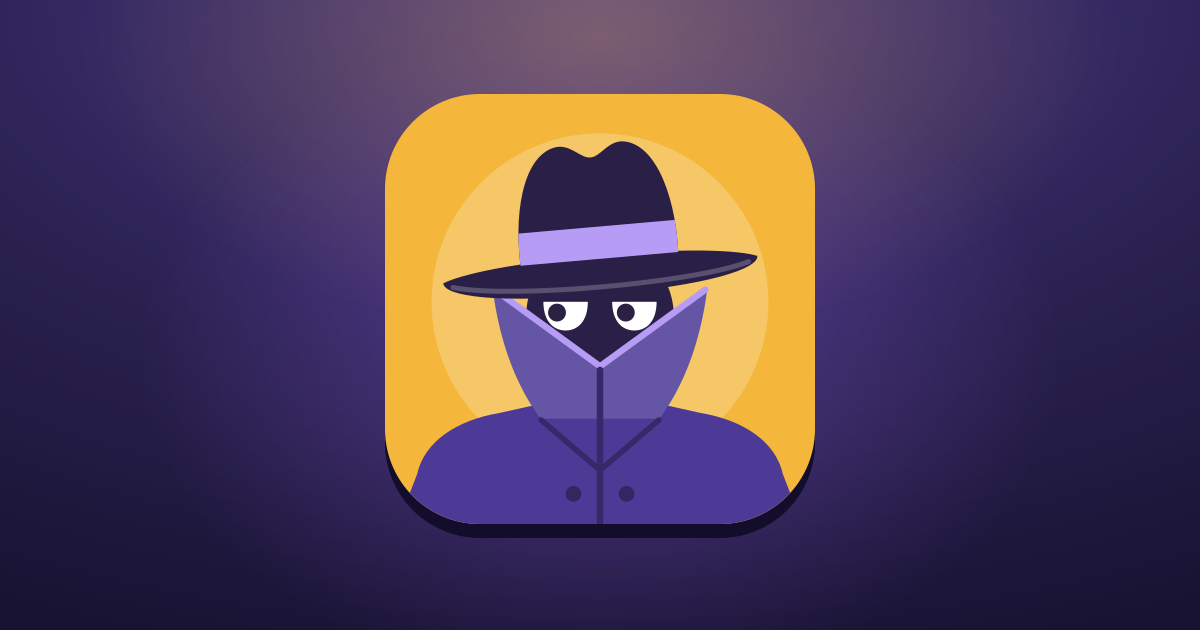
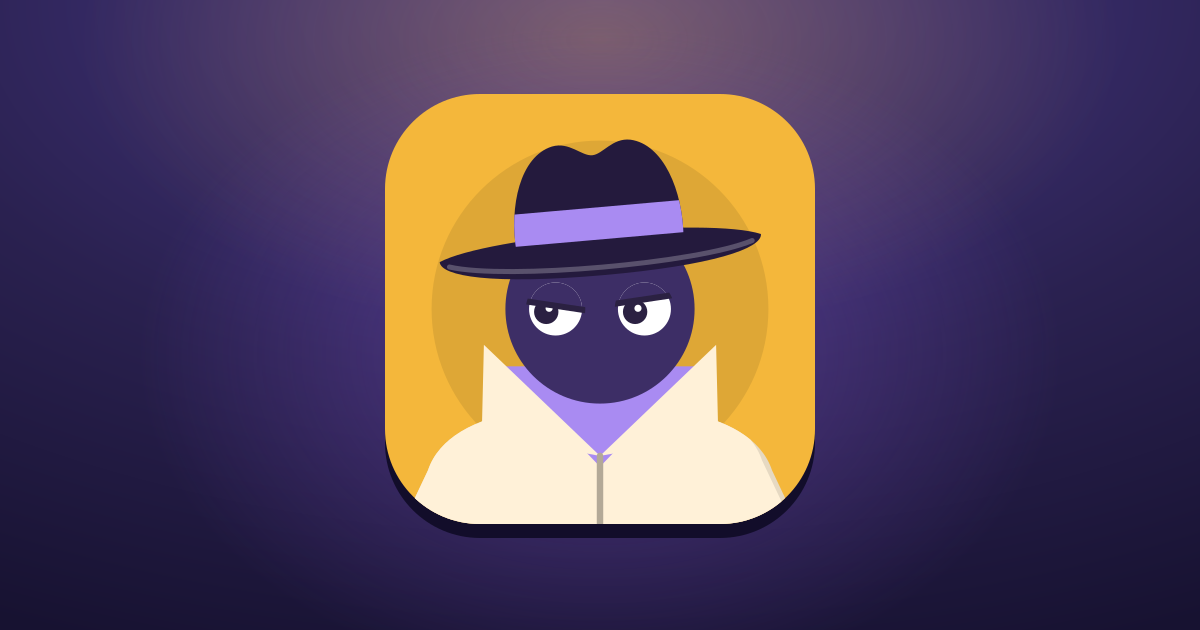
The fox's eye-band, the whole hound, and a rounder impostor
- The fox wears a narrow band across his eyes, tied behind his head with
  its two ends flying; his cap sits higher, so his brow shows between them.
- The detective is drawn whole: on his feet in a long coat and a short cape
  of the same check, his head bent to the glass he holds out, a tail that
  wags when he finds the print, and a floor to stand on.
- The impostor has a round head under a wide hat, large eyes with sly lids
  that his pupils move under, a scarf under his chin and a pale coat with
  its collar up.

Claude-Session: https://claude.ai/code/session_011eKY4xnopr5UAa1vaHj4wo

Changed region(s): [[0.3392, 0.2111, 0.6783, 0.8444]]

diff --git a/shared/src/art/game-covers.ts b/shared/src/art/game-covers.ts
@@ -115,13 +115,15 @@ function eye(dr: Drawing, cx: number, cy: number, r: number, look: readonly [num
   const [px, py] = [cx + look[0] * r * 0.4, cy + look[1] * r * 0.4];
   fill(dr, ring(px, py, r * 0.46), INK);
   fill(dr, ring(px + r * 0.14, py - r * 0.18, r * 0.14), WHITE);
-  if (lid) {
-    const y = cy - r + lid.down * 2 * r;
-    const rise = Math.tan((lid.slope * Math.PI) / 180) * r;
-    inside(dr, round, () => fill(dr, `M${n(cx - r - 1)} ${n(cy - r - 1)}H${n(cx + r + 1)}V${n(y + rise)}L${n(cx - r - 1)} ${n(y - rise)}Z`, lid.colour));
-    inside(dr, ring(cx, cy, r + 0.9), () => line(dr, `M${n(cx - r - 2)} ${n(y - rise * 1.2)}L${n(cx + r + 2)} ${n(y + rise * 1.2)}`, INK, 1.7));
-  }
+  if (lid) eyelid(dr, cx, cy, r, lid);
   line(dr, round, INK, 1.5);
+}
+/** A lid over an eye: the wearer's colour down to where the lid has come, and the line of its edge. */
+function eyelid(dr: Drawing, cx: number, cy: number, r: number, lid: Lid): void {
+  const y = cy - r + lid.down * 2 * r;
+  const rise = Math.tan((lid.slope * Math.PI) / 180) * r;
+  inside(dr, ring(cx, cy, r), () => fill(dr, `M${n(cx - r - 1)} ${n(cy - r - 1)}H${n(cx + r + 1)}V${n(y + rise)}L${n(cx - r - 1)} ${n(y - rise)}Z`, lid.colour));
+  inside(dr, ring(cx, cy, r + 0.9), () => line(dr, `M${n(cx - r - 2)} ${n(y - rise * 1.2)}L${n(cx + r + 2)} ${n(y + rise * 1.2)}`, INK, 1.7));
 }
 
 /** The letters with a hat stand a little low on a tile and the ones with a tail a little high, so that each sits in the middle of its tile to the eye. */
@@ -514,20 +516,23 @@ function foxHead(dr: Drawing): void {
   fill(dr, 'M72 22L83.6 5.6L90 31Z', FOX);
   fill(dr, 'M57 27L56 17.4L62.4 23Z', INK);
   fill(dr, 'M78 22L83 13.6L85.6 26Z', INK);
+  // the two ends of the band he has tied across his eyes, flying out behind his head
+  fill(dr, 'M54 36.6C48 33.6 44 34.6 38.6 29.6C40.6 37 46 39.6 53 40Z', INK);
+  fill(dr, 'M53 39C47.6 40.6 44.6 45 39.6 46C44 49.6 50 46.4 54.6 42Z', INK);
   lit(dr, FOX_HEAD, FOX, 2.4, 0.16);
   inside(dr, FOX_HEAD, () => {
-    // the pale of his cheek and muzzle, and the mask across his eyes
+    // the pale of his cheek and muzzle, and the band: narrow, level, and going right round his head
     fill(dr, 'M50 48C59 44 69 47 77 45C84 43.4 88 40 91 37L108 48V64H50Z', FUR);
-    fill(dr, 'M48 33C60 29 76 29 91 34.4L96 44C85 39.6 74 41.4 66 43.6C60 45.2 54 44.8 48 43Z', INK);
+    fill(dr, 'M48 34.8C62 31.4 78 31.6 93 35.8L97 43C84 39.8 72 39.8 62 40.8C57 41.4 52.6 41.8 48 41.8Z', INK);
   });
   fill(dr, oval(100, 49.2, 3.3, 2.9), INK);
   line(dr, 'M86.6 55C90 55.6 93.6 54.6 96 52.8', INK, 1.4);
-  // the eye that keeps watch through the mask, looking back the way he came
-  fill(dr, 'M73.6 38C76.4 33.8 82.8 33.4 86 37.2C83 40.8 77 41 73.6 38Z', WHITE);
-  fill(dr, ring(78, 37.4, 1.9), INK);
-  // the cap pulled down over his brow
-  lit(dr, 'M52 34C53 22 61 15 71 15C81 15 88 21 90.4 33C78 27.4 64 27.6 52 34Z', CAP, 1.8, 0.18);
-  line(dr, 'M52.6 33.6C64 27.6 78 27.4 90 32.8', tint(CAP, 0.36), 3.2);
+  // the eye that keeps watch through the band, looking back the way he came
+  fill(dr, 'M74.4 37.2C77 33.6 82.8 33.4 85.6 36.6C82.8 39.6 77.4 39.8 74.4 37.2Z', WHITE);
+  fill(dr, ring(78.4, 36.6, 1.8), INK);
+  // the cap, on the top of his head and clear of the band
+  lit(dr, 'M55 29C56.6 20 63 14.6 71 14.6C79 14.6 85.6 19.6 87.6 28C77 24 65 24.4 55 29Z', CAP, 1.8, 0.18);
+  line(dr, 'M55.6 28.4C65 24.2 77 24 87 27.4', tint(CAP, 0.36), 3);
 }
 
 function foxTorch(dr: Drawing): void {
@@ -600,12 +605,12 @@ const TWEED = '#3f7d5f';
 function check(dr: Drawing, d: string, xs: readonly number[], ys: readonly number[]): void {
   inside(dr, d, () => {
     for (const x of xs) {
-      line(dr, `M${n(x)} 0V124`, tint(TWEED, -0.3), 2.2);
-      line(dr, `M${n(x + 3.4)} 0V124`, GOLD, 0.8);
+      line(dr, `M${n(x)} -130V130`, tint(TWEED, -0.3), 2);
+      line(dr, `M${n(x + 3)} -130V130`, GOLD, 0.8);
     }
     for (const y of ys) {
-      line(dr, `M0 ${n(y)}H124`, tint(TWEED, -0.3), 2.2);
-      line(dr, `M0 ${n(y + 3.4)}H124`, GOLD, 0.8);
+      line(dr, `M-130 ${n(y)}H130`, tint(TWEED, -0.3), 2);
+      line(dr, `M-130 ${n(y + 3)}H130`, GOLD, 0.8);
     }
   });
 }
@@ -618,58 +623,80 @@ function pawPrint(dr: Drawing, cx: number, cy: number, k: number, hex: string, t
   });
 }
 
-function houndCoat(dr: Drawing): void {
-  // what shows of his neck between his jaw and his collar, in the shade of his head
-  fill(dr, 'M64 58H96L100 84H60Z', tint(HOUND, -0.12));
-  const cape = 'M36 124C38 97 48 79 64 74C76 70 98 70 108 75C118 80 122 98 124 124Z';
+function houndTail(dr: Drawing): void {
+  line(dr, 'M93 85C100 83.6 105.4 78 106 70.6', tint(HOUND, -0.1), 5.6);
+}
+
+/** Everything of him below the neck: his feet, his long coat, and the short cape over its shoulders. */
+function houndBody(dr: Drawing): void {
+  // his feet under the hem of the coat, the far one a tone darker
+  fill(dr, 'M74 104.6C74 99 78.4 96 84.6 96.4C89.4 96.8 92 99.6 92 104.6Z', tint(HOUND, -0.14));
+  lit(dr, 'M54 104.6C54 98.4 59 95.2 66.4 95.8C72 96.2 75 99.4 75 104.6Z', HOUND, 1.6, 0.14);
+  line(dr, 'M59.6 100.4V104M64.6 100V104', tint(HOUND, -0.4), 1.2);
+  // what shows of his neck, in the shade of his head
+  fill(dr, 'M68 46H85V62H68Z', tint(HOUND, -0.12));
+  const coat = 'M63 57C58.6 70 56 84 55.4 96.6H97C96.4 83 94 69 90 57Z';
+  fill(dr, coat, tint(TWEED, -0.12));
+  check(dr, coat, [63, 76, 89], [88]);
+  // the cape, and the shade it throws on the coat below it
+  const cape = 'M62 53C54.6 59 49.6 69 48 79C60 84.6 88 84.6 100.4 77.6C98.6 67.6 95.4 59.4 90.6 53Z';
+  inside(dr, coat, () => fill(dr, cape, tint(TWEED, -0.42), at(0, 2.6)));
   fill(dr, cape, TWEED);
-  check(dr, cape, [50, 66, 82, 98, 114], [90, 106]);
+  check(dr, cape, [56, 69, 82, 95], [66]);
   // the collar, turned down round his neck
-  const collar = 'M60 76C69 85.6 98 85.6 109 75C102 68.6 71 68.6 60 76Z';
-  fill(dr, collar, tint(TWEED, -0.2));
+  fill(dr, 'M65 54.6C71 60 86 60 92.6 53.6C87 50 72 50 65 54.6Z', tint(TWEED, -0.24));
 }
 
+/** His head about the middle of his skull, looking left: the muzzle, the long ear, the eye, and the deerstalker on top. */
 function houndHead(dr: Drawing): void {
-  lit(dr, oval(78, 42, 19.6, 19), HOUND, 2.4, 0.14);
-  // the muzzle out to the left, his nose at the end of it, and his mouth shut on a thought
-  lit(dr, rr(29, 42, 48, 22, 11), MUZZLE, 2.2, 0.12);
-  fill(dr, 'M29.6 49C29.6 44.6 33 42.4 37 42.4C40.4 42.4 42.6 44.6 42 47.4C41.4 50.6 38 53 34.4 53C31.6 53 29.6 51.6 29.6 49Z', INK);
-  line(dr, 'M36 53V57.4C42 62 54 62.4 63 58', INK, 1.6);
+  lit(dr, oval(0, 0, 17, 16.4), HOUND, 2.2, 0.14);
+  // the muzzle, his nose at the end of it, and his mouth shut on a thought
+  lit(dr, rr(-33, -2.4, 35, 17.6, 8.8), MUZZLE, 2, 0.12);
+  fill(dr, 'M-33 3.2C-33 -1 -29.8 -3 -26 -3C-22.6 -3 -20.6 -0.8 -21.2 2.2C-21.8 5.4 -25 7.6 -28.6 7.6C-31.2 7.6 -33 5.8 -33 3.2Z', INK);
+  line(dr, 'M-26.6 7.6V10.6C-21 14.4 -13 14.4 -7 11', INK, 1.5);
   // the long ear, hanging down past his jaw
-  lit(dr, 'M84 30C94 29 101 39 101 53C101 66 98 76 93 80C88 83 83.6 79 82.6 71C81 58 80.6 42 84 30Z', EAR, 2, 0.2);
+  lit(dr, 'M6 -13C15 -14 21 -5 21 7C21 17 18.4 25 14 28.4C9.6 31 6 27.4 5 20.6C3.6 10 3 -3 6 -13Z', EAR, 1.8, 0.2);
   // the eye, on what is in the glass
-  eye(dr, 67, 39.4, 4.5, [-0.55, 0.6], { colour: HOUND, down: 0.28, slope: 10 });
-}
-
-function houndCap(dr: Drawing): void {
+  eye(dr, -9.4, -4.6, 4.3, [-0.5, 0.6], { colour: HOUND, down: 0.24, slope: 8 });
   // the deerstalker: a peak before and behind, the crown, and the flaps tied in a bow on top
-  fill(dr, 'M60 35C54 32 46 33 41 37.6C47 39.6 55 39.4 61.4 37.6Z', tint(TWEED, -0.2));
-  fill(dr, 'M97 35C103 36 109 40 110.4 45.6C105 45 99 42.6 95.6 39Z', tint(TWEED, -0.2));
-  const crown = 'M57 37.4C58 24 66 15.6 78 15.6C90 15.6 98 24 99 37.4C86 32 70 32 57 37.4Z';
+  fill(dr, 'M-16 -7.4C-21 -10.4 -29 -9.2 -33.4 -4.6C-27.4 -2.8 -20.6 -3.2 -14.6 -5.2Z', tint(TWEED, -0.2));
+  fill(dr, 'M16 -8C21.4 -7 26.6 -3.4 27.8 1.6C22.6 1.2 17.4 -1.2 14.6 -4.4Z', tint(TWEED, -0.2));
+  const crown = 'M-18 -5.6C-17 -17.6 -10 -24.6 0 -24.6C10 -24.6 17 -17.6 18 -5.6C7 -10.4 -7 -10.4 -18 -5.6Z';
   fill(dr, crown, TWEED);
-  check(dr, crown, [64, 77, 90], [24]);
-  fill(dr, 'M77.4 15.8C73.6 10.8 69 11.6 69.4 15C69.8 17.6 74 18 77.4 15.8Z', tint(TWEED, -0.2));
-  fill(dr, 'M78.6 15.8C82.4 10.8 87 11.6 86.6 15C86.2 17.6 82 18 78.6 15.8Z', tint(TWEED, -0.2));
-  fill(dr, ring(78, 15.6, 2), tint(TWEED, -0.42));
+  check(dr, crown, [-12, -1, 10], [-18]);
+  fill(dr, 'M-0.6 -24.4C-4 -28.8 -8.2 -28 -7.8 -25C-7.4 -22.8 -3.6 -22.4 -0.6 -24.4Z', tint(TWEED, -0.2));
+  fill(dr, 'M0.6 -24.4C4 -28.8 8.2 -28 7.8 -25C7.4 -22.8 3.6 -22.4 0.6 -24.4Z', tint(TWEED, -0.2));
+  fill(dr, ring(0, -24.6, 1.9), tint(TWEED, -0.42));
+}
+/** Where the middle of his skull is, and how far his head is bent to the glass. */
+const HOUND_HEAD = [66, 40] as const;
+const HOUND_BENT = -13;
+/** He is drawn at one size and shown a little larger, grown from the floor between his feet. */
+const HOUND_GROWN = 1.1;
+const HOUND_STANDS = [64, 106] as const;
+const grown = (dr: Drawing, draw: () => void): void => placed(dr, HOUND_STANDS[0] * (1 - HOUND_GROWN), HOUND_STANDS[1] * (1 - HOUND_GROWN), 0, HOUND_GROWN, draw);
+const grownPoint = (x: number, y: number): readonly [number, number] => [HOUND_STANDS[0] + (x - HOUND_STANDS[0]) * HOUND_GROWN, HOUND_STANDS[1] + (y - HOUND_STANDS[1]) * HOUND_GROWN];
+
+/** The glass he holds out, the print it has found large in it, and the arm that holds it. */
+function houndGlass(dr: Drawing): void {
+  line(dr, 'M36.6 83.4L48.6 79.6', '#b4602c', 5.2);
+  fill(dr, ring(24, 88, 14.6), '#eaf6fe');
+  pawPrint(dr, 24, 89, 1.5, EAR, -16);
+  line(dr, ring(24, 88, 14.6), INK, 4);
+  line(dr, 'M15.6 82.4C16.8 79.6 19 77.6 21.8 76.8', WHITE, 1.8);
+  // the sleeve his arm comes out of the cape in, and the paw on the handle
+  line(dr, 'M62 72.6L53 78', tint(TWEED, -0.24), 9.6);
+  lit(dr, 'M43.6 77.6C45.4 74.4 50 74 53.4 76C56.4 77.8 57 82 54.6 84.8C52 87.6 46.8 87.2 44.4 84.6C42.6 82.6 42.4 79.8 43.6 77.6Z', HOUND, 1.4, 0.16);
+  line(dr, 'M47 76.6L46.2 79.8M50.6 76.2L50 79.4', tint(HOUND, -0.42), 1.2);
 }
 
-/** The glass he holds out, and the print it has found, large in it. */
-function houndGlass(dr: Drawing): void {
-  line(dr, 'M43 101L64 113', '#b4602c', 6);
-  fill(dr, ring(30, 90, 17), '#eaf6fe');
-  pawPrint(dr, 30, 91, 1.7, EAR, -16);
-  line(dr, ring(30, 90, 17), INK, 4.4);
-  line(dr, 'M20.6 83.6C22 80.4 24.6 78.2 27.8 77.2', WHITE, 2);
-  // the sleeve his arm comes out of the cape in, and the paw that holds the glass
-  line(dr, 'M86 125L71 114.6', tint(TWEED, -0.2), 10.4);
-  lit(dr, 'M56.6 108C58.6 104.4 64 103.8 67.8 106C71.2 108 71.8 113.2 69 116.4C66 119.6 60 119.2 57.2 116.2C55.2 114 55.2 110.6 56.6 108Z', HOUND, 1.6, 0.16);
-  line(dr, 'M60.4 106.6L59.4 110.4M64.6 106.2L63.8 110.2', tint(HOUND, -0.42), 1.3);
-}
+/** The head bends to the glass at the find, and comes up again. */
+const bends: Key[] = [[0, {}], [0.5, {}, 'hold'], [0.56, { r: -5 }, 'out'], [0.84, {}, 'hold'], [0.92, { r: 0 }, 'inOut'], [1, {}, 'hold']];
 
 /**
- * The detective: a hound in a deerstalker, looking down his nose at his glass.
- * He lifts it, sets it down again — and there is a print, large in it, and
- * his head comes down to look.
+ * The detective: a hound in a deerstalker and a cape, on his feet and bent
+ * over his glass. He lifts it, sets it down again — and there is a print,
+ * large in it: his head comes down to look, and his tail gives him away.
  */
 const detective: Cover = {
   title: GAME_NAMES.detective,
@@ -678,16 +705,23 @@ const detective: Cover = {
     {
       draw: (dr) => {
         ground(dr, SKY);
-        fill(dr, ring(72, 48, 43), tint(SKY, 0.24));
+        fill(dr, ring(64, 54, 45), tint(SKY, 0.24));
+        // the floor he stands on, and his shadow on it
+        fill(dr, 'M0 99H120V120H0Z', tint(SKY, -0.1));
+        fill(dr, oval(74, 105, 31, 3), tint(SKY, -0.24));
       },
     },
-    { draw: houndCoat },
-    { draw: (dr) => placed(dr, 0, 3, 0, 1, () => houndHead(dr)), pivot: [82, 63], keys: [[0, {}], [0.5, {}, 'hold'], [0.56, { r: -3 }, 'out'], [0.84, {}, 'hold'], [0.92, { r: 0 }, 'inOut'], [1, {}, 'hold']] },
-    { draw: (dr) => placed(dr, 0, 3, 0, 1, () => houndCap(dr)), pivot: [82, 63], keys: [[0, {}], [0.5, {}, 'hold'], [0.56, { r: -3 }, 'out'], [0.84, {}, 'hold'], [0.92, { r: 0 }, 'inOut'], [1, {}, 'hold']] },
     {
-      draw: houndGlass,
-      pivot: [62, 112],
-      keys: [[0, {}], [0.06, {}, 'hold'], [0.18, { x: 3, y: -8, r: 7 }, 'inOut'], [0.3, {}, 'hold'], [0.42, { x: 0, y: 0, r: 0 }, 'inOut'], [0.5, { s: 1.06 }, 'out'], [0.58, { s: 1 }, 'inOut'], [1, {}, 'hold']],
+      draw: (dr) => grown(dr, () => houndTail(dr)),
+      pivot: grownPoint(93, 85),
+      keys: [[0, {}], [0.56, {}, 'hold'], [0.6, { r: 14 }, 'out'], [0.65, { r: -10 }, 'inOut'], [0.7, { r: 12 }, 'inOut'], [0.75, { r: -8 }, 'inOut'], [0.8, { r: 0 }, 'inOut'], [1, {}, 'hold']],
+    },
+    { draw: (dr) => grown(dr, () => houndBody(dr)) },
+    { draw: (dr) => grown(dr, () => placed(dr, HOUND_HEAD[0], HOUND_HEAD[1], HOUND_BENT, 1, () => houndHead(dr))), pivot: grownPoint(78, 52), keys: bends },
+    {
+      draw: (dr) => grown(dr, () => houndGlass(dr)),
+      pivot: grownPoint(58, 76),
+      keys: [[0, {}], [0.06, {}, 'hold'], [0.18, { x: 2, y: -7, r: 6 }, 'inOut'], [0.3, {}, 'hold'], [0.42, { x: 0, y: 0, r: 0 }, 'inOut'], [0.5, { s: 1.05 }, 'out'], [0.58, { s: 1 }, 'inOut'], [1, {}, 'hold']],
     },
   ],
 };
@@ -765,44 +799,53 @@ const lastLetter: Cover = {
 // ───────────────────────────────────────────────────────────── the impostor
 
 const MUSTARD = '#f4b73b';
-/** His hat, and his face in the shadow of it. */
-const DARK = '#2a1f47';
-const COAT = '#4c3a96';
-const BAND = '#b79cf5';
+/** His hat, and his face a tone lighter in the shadow of it. */
+const HAT = '#241a3d';
+const FACE = '#3d2e66';
+const TRENCH = '#fff1d8';
+const BAND = '#a98bf2';
+/** His eyes: where each is, and the lid that makes it sly. The near one is the narrower. */
+const EYES: ReadonlyArray<readonly [number, number, number, Lid]> = [
+  [47.6, 60, 7.4, { colour: FACE, down: 0.44, slope: 9 }],
+  [72.4, 60, 7.4, { colour: FACE, down: 0.32, slope: -9 }],
+];
 
 function stranger(dr: Drawing): void {
-  // the coat's shoulders, and the head between them, in the shadow of his hat
-  fill(dr, 'M2 124L9 106C11 97 20 91 32 89L50 85H70L88 89C100 91 109 97 111 106L118 124Z', COAT);
-  fill(dr, oval(60, 62, 20.6, 21), DARK);
-  // the collar turned up: two wings that stand out past his cheeks and meet under his eyes
-  fill(dr, 'M30 54L60 76L90 54C88 70 83 82 76.6 90.6H43.4C37 82 32 70 30 54Z', tint(COAT, 0.14));
-  line(dr, 'M30.6 54.6L60 76L89.4 54.6', BAND, 1.8);
-  // where the two wings meet, the lapels below them, and the coat done up
-  line(dr, 'M60 77V124', tint(COAT, -0.3), 1.8);
-  line(dr, 'M43.6 91L60 105L76.4 91', tint(COAT, -0.3), 1.6);
-  for (const x of [52.6, 67.4]) fill(dr, ring(x, 111.6, 2.2), tint(COAT, -0.34));
-}
-/** The whites of his eyes under the brim, which cuts them off level. */
-function strangerWhites(dr: Drawing): void {
-  for (const x of [50.4, 69.6]) fill(dr, `M${n(x - 6.2)} 58H${n(x + 6.2)}C${n(x + 6.2)} 63.4 ${n(x + 3.4)} 66 ${n(x)} 66C${n(x - 3.4)} 66 ${n(x - 6.2)} 63.4 ${n(x - 6.2)} 58Z`, WHITE);
+  // the coat's shoulders, and his scarf in the opening of it
+  lit(dr, 'M3 124L12 105C15 96 25 90.6 38 88.6L52 85H68L82 88.6C95 90.6 105 96 108 105L117 124Z', TRENCH, 2.8, 0.1);
+  fill(dr, 'M33 76H87L60 104Z', BAND);
+  // his head, round, in the shadow of his hat
+  fill(dr, ring(60, 60, 26.4), FACE);
+  // the collar turned up: a wing either side of his chin, coming down to where the coat closes
+  fill(dr, 'M27.6 70L60 101L27 95Z', TRENCH);
+  fill(dr, 'M92.4 70L60 101L93 95Z', TRENCH);
+  // the coat done up
+  line(dr, 'M60 101V124', tint(TRENCH, -0.3), 1.8);
+  for (const [x, y, r] of EYES) fill(dr, ring(x, y, r), WHITE);
 }
 function strangerEyes(dr: Drawing): void {
-  for (const x of [48, 67.2]) fill(dr, ring(x, 61, 2.5), INK);
+  for (const [x, y, r] of EYES) {
+    fill(dr, ring(x - 2.6, y + 0.8, r * 0.46), INK);
+    fill(dr, ring(x - 1.8, y - 0.2, r * 0.13), WHITE);
+  }
+}
+function strangerLids(dr: Drawing): void {
+  for (const [x, y, r, lid] of EYES) eyelid(dr, x, y, r, lid);
 }
 function strangerHat(dr: Drawing): void {
-  turned(dr, -5, 60, 48, () => {
-    fill(dr, 'M16 49C30 43.6 90 43.6 104 49C104 52.6 90 56 60 56C30 56 16 52.6 16 49Z', DARK);
-    const crown = 'M38 48C37 32 41 16 50 14C54.6 13 57 17.6 60 17.6C63 17.6 65.4 13 70 14C79 16 83 32 82 48C70 51 50 51 38 48Z';
-    fill(dr, crown, DARK);
-    inside(dr, crown, () => fill(dr, 'M30 37H90V46H30Z', BAND));
-    line(dr, 'M18.6 50.4C34 55 86 55 101.4 50.4', tint(DARK, 0.22), 1.4);
+  turned(dr, -5, 60, 42, () => {
+    fill(dr, 'M15 43C29 37 91 37 105 43C105 47 91 50.6 60 50.6C29 50.6 15 47 15 43Z', HAT);
+    const crown = 'M36.6 42C35.6 29 40 15.6 49 13.6C54 12.6 57 17 60 17C63 17 66 12.6 71 13.6C80 15.6 84.4 29 83.4 42C70 45.6 50 45.6 36.6 42Z';
+    fill(dr, crown, HAT);
+    inside(dr, crown, () => fill(dr, 'M30 31.6H90V40.6H30Z', BAND));
+    line(dr, 'M17.6 44.6C33 49.6 87 49.6 102.4 44.6', tint(HAT, 0.24), 1.4);
   });
 }
 
 /**
- * The impostor: a stranger with his hat down and his collar up, and nothing
- * of his face to be seen but his eyes — which go from one side to the other,
- * because he is the one who does not have the word.
+ * The impostor: a round-headed stranger with his hat down and his collar up.
+ * His eyes go from one side to the other under their lids, because he is the
+ * one who does not have the word.
  */
 const impostor: Cover = {
   title: GAME_NAMES.impostor,
@@ -811,16 +854,16 @@ const impostor: Cover = {
     {
       draw: (dr) => {
         ground(dr, MUSTARD);
-        fill(dr, ring(60, 58, 47), tint(MUSTARD, 0.22));
+        fill(dr, ring(60, 60, 47), tint(MUSTARD, -0.09));
         stranger(dr);
-        strangerWhites(dr);
       },
     },
     {
       draw: strangerEyes,
-      keys: [[0, {}], [0.1, {}, 'hold'], [0.13, { x: 4.6 }, 'out'], [0.34, {}, 'hold'], [0.37, { x: 0 }, 'out'], [0.52, {}, 'hold'], [0.55, { x: 4.6 }, 'out'], [0.66, {}, 'hold'], [0.69, { x: 0 }, 'out'], [1, {}, 'hold']],
+      keys: [[0, {}], [0.1, {}, 'hold'], [0.13, { x: 5 }, 'out'], [0.34, {}, 'hold'], [0.37, { x: 0 }, 'out'], [0.52, {}, 'hold'], [0.55, { x: 5 }, 'out'], [0.66, {}, 'hold'], [0.69, { x: 0 }, 'out'], [1, {}, 'hold']],
     },
-    { draw: strangerHat, pivot: [60, 48], keys: [[0, {}], [0.7, {}, 'hold'], [0.76, { y: 2.6, r: -3 }, 'out'], [0.86, {}, 'hold'], [0.93, { y: 0, r: 0 }, 'inOut'], [1, {}, 'hold']] },
+    { draw: strangerLids },
+    { draw: strangerHat, pivot: [60, 44], keys: [[0, {}], [0.7, {}, 'hold'], [0.76, { y: 2.4, r: -3 }, 'out'], [0.86, {}, 'hold'], [0.93, { y: 0, r: 0 }, 'inOut'], [1, {}, 'hold']] },
   ],
 };
 
